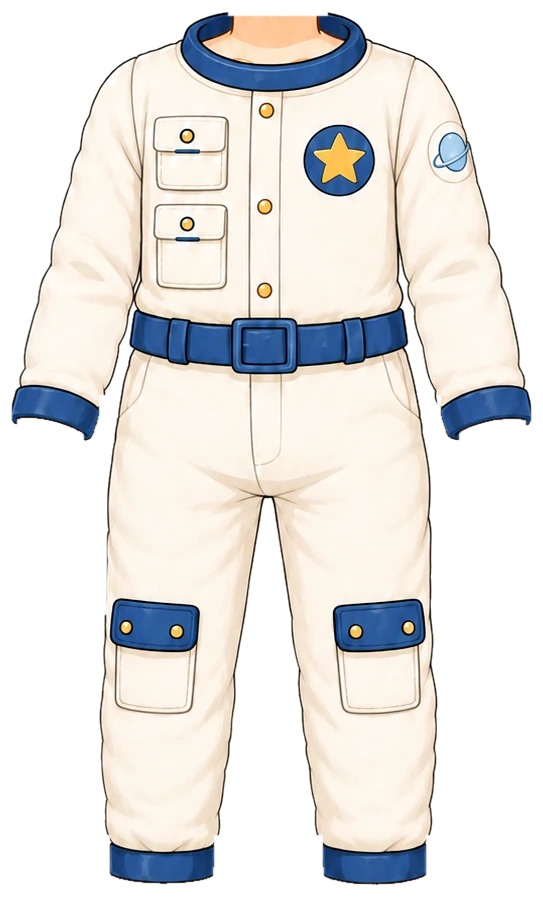
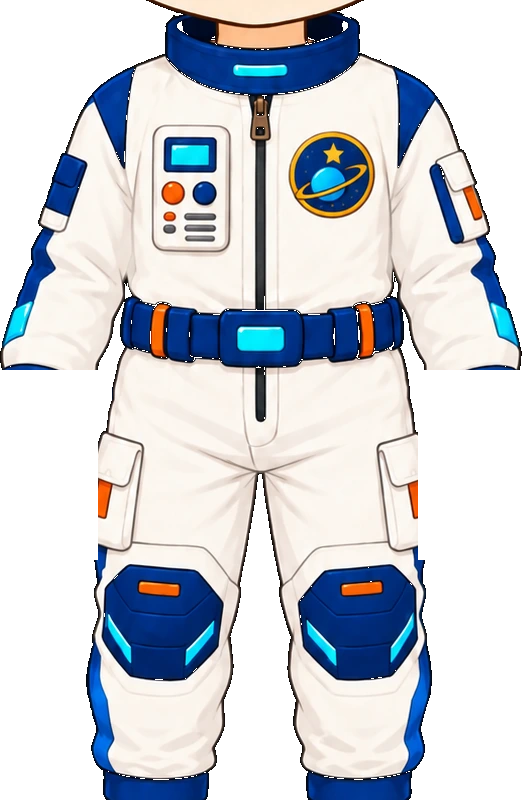
우주복 그림 교체 + 우주 헬멧·로켓 가방·우주 부츠 추가 (남아) (#731)
- 남아 우주복(top_space) 그림을 사용자가 새로 그려 준 우주 세트로 교체
  (흰 우주복 + 남색 배색 + 제어판·토성 별 패치). id·가격은 그대로라
  이미 산 아이는 그대로 입고 있다
- 헬멧(hat_astronaut)·가방(back_rocket)·부츠(shoes_astronaut)를 새로
  추가 — 지금까지 hat·back·shoes 슬롯에 남아용으로 살아 있는 아이템이
  하나도 없었는데, 이걸로 세 슬롯 모두 첫 남아 아이템이 생겼다
- 네 아이템 모두 같은 배율(0.638)·목깃선(y640)으로 탑재해 서로 갈아입어도
  자리가 어긋나지 않는다 (art-src/README '우주 세트' 항목 참고)

Claude-Session: https://claude.ai/code/session_018maNuYqDfFyRSe9uKpZhPR

diff --git a/src/data/avatarEquipment.js b/src/data/avatarEquipment.js
@@ -222,16 +222,16 @@ export const AVATAR_CATALOG = [
      베이스 속옷도 희고 살색과도 가까워서다. 그래서 '베이스가 살색인 자리에서만 색차를 본다'로
      바꿔서 떼어냈다(art-src/README 참고). 팔·다리까지 다 덮는 한 벌이라 상의 슬롯 하나.
      [2026-09-25] 남아 원화가 들어와 남녀 공용이 됐다 (사파리·해적 옷에 이어 세 번째).
-       남아: 크림 우주복 + 남색 깃·벨트·소맷부리 + 금단추 + 별 패치 · 여아: 연보라 배색
-     남아 원화도 해적 옷과 같이 **알파에 옷만 담겨 있어** 색으로 옷을 골라낼 필요가 없었다
-     (RGB 엔 손·목·발목 살까지 다 있지만 그 자리의 알파가 0 이다).
-     다만 원화의 몸이 베이스 v7 보다 팔다리가 길고 가늘어 한 배율로는 안 맞았다 —
-     가슴·허리 폭으로 맞추면(0.62) 바지가 발등을 덮고, 키로 맞추면(0.55) 옷이 몸보다 좁았다.
-     그래서 가로 0.62 · 세로 0.555 로 따로 줬다(세로 11% 눌림). 베이스가 통통한 치비라
-     눌린 쪽이 오히려 몸에 맞는다. 깃 위끝 y400 → 탑재 상자 (349,398)-(676,888).
-     실측: 소매부리 y638(손목 y625 바로 아래) · 바지밑단 y888(발목 y885 바로 아래, 맨발 노출).
-     ※ 깃이 머리 장(y403~405)을 170px 덮는데 그 자리는 턱이 아니라 목(폭 58~62)이라 맞다.
-       상의는 z35 로 베이스(z20) 위에 그려지므로 깃이 목을 감싼다. */
+     [2026-09-29 남아 원화 교체] 사용자가 헬멧·가방·신발까지 갖춘 '우주 세트'로 새로 그려
+     보내 왔다 — 남아 우주복만 이 그림으로 갈아 끼웠다(그림 교체, CLAUDE.md 6). id·가격은
+     그대로라 이미 산 아이는 그대로 입고 있다. 새 그림: 흰 우주복 + 남색 어깨·벨트·무릎보호대 +
+     제어판·토성 패치 + 주황 포인트. 손·발은 알파 0(투명)으로 비워 베이스 맨손·맨발이 비친다
+     (해적 옷과 같은 방식, 다만 이번엔 색이 아니라 손·발 상자를 직접 지워 골라냈다).
+     탑재: 여러 장(옷만·헬멧만·헬멧+신발·헬멧+가방+신발)을 받아 목깃 높이(y640)·벨트 폭을
+     기준으로 배율 0.638 균등 산출 → 목깃 위끝 y640, 발목깃 y1425(맨발 시작 전) 잘라
+     탑재 상자 대략 (224,-3)~(608+224,1053-3). 우주 헬멧(hat_astronaut)·로켓 가방
+     (back_rocket)·우주 부츠(shoes_astronaut)도 같은 배율·목깃선으로 맞춰 세트가 어긋나지
+     않는다(art-src/README '우주 세트' 참고). */
   /* 해적 옷 — 이 원화도 '옷만 오려 낸 그림'이라 상체를 눈으로 맞췄다(하늘 나들이 옷과 같은 방식).
      긴소매라 소맷부리가 손목에 닿는 배율을 골랐다 — 0.72는 팔뚝이 남고 0.76부터는 손을 덮는다.
      배율 0.74 · 깃 위끝 y372(기본 반팔티 깃과 같은 자리) → 탑재 상자 (350,372)-(674,754). */
@@ -268,7 +268,21 @@ export const AVATAR_CATALOG = [
      망토 깃 안쪽 목·가슴 살은 남겼다 — 깃 구멍(폭 39)이 베이스 목(폭 67)보다
      좁아서 살을 지우면 깃 사이로 구멍이 보인다(민트 후드와 같은 이유). */
   { id: "top_acorn",      slot: "top",   label: "도토리 탐험복", emoji: "🌰", price:DECOR_PRICE.rare, rarity: "rare", theme: "adventure", forGender: "boy", coversBottom: true, img: "assets/avatar/top/acorn-outfit-boy.webp", thumb: "assets/avatar/thumb/top_acorn.webp" },
-  { id: "top_space",      slot: "top",   label: "우주복",       emoji: "🚀", price:DECOR_PRICE.epic, rarity: "epic", theme: "space",  coversBottom: true, img: "assets/avatar/top/space-suit-boy.webp?v=2", imgGirl: "assets/avatar/top/space-suit-girl.webp", thumb: "assets/avatar/thumb/top_space.webp", thumbGirl: "assets/avatar/thumb/top_space-girl.webp" },
+  { id: "top_space",      slot: "top",   label: "우주복",       emoji: "🚀", price:DECOR_PRICE.epic, rarity: "epic", theme: "space",  coversBottom: true, img: "assets/avatar/top/space-suit-boy.webp?v=3", imgGirl: "assets/avatar/top/space-suit-girl.webp", thumb: "assets/avatar/thumb/top_space.webp?v=3", thumbGirl: "assets/avatar/thumb/top_space-girl.webp" },
+
+  /* ── 우주 세트 (남아) — 사용자 원화 2026-09-29 ────────────────────────────
+     우주복(top_space)과 같은 원화 세트에서 나온 헬멧·가방·신발. 셋 다 남아 전용 첫
+     세트 아이템이고(hat·back·shoes 슬롯에 살아 있는 아이템이 이제껏 하나도 없었다),
+     같은 배율(0.638)·목깃선(y640)으로 탑재해 우주복과 갈아입어도 자리가 안 어긋난다. */
+  /* 우주 헬멧 — 얼굴째 덮는 그림이라 hidesHead. 원화가 이미 '쓰고 있는 머리 그림'이라
+     얼굴 위치를 눈으로 맞출 필요 없이 우주복과 같은 목깃선(y640)에 밑단을 맞췄다. */
+  { id: "hat_astronaut",  slot: "hat",   label: "우주 헬멧",    emoji: "👨🚀", price:DECOR_PRICE.rare, rarity: "rare", theme: "space", forGender: "boy", hidesHead: true, img: "assets/avatar/hat/astronaut-helmet-boy.webp", thumb: "assets/avatar/thumb/hat_astronaut.webp" },
+  /* 로켓 가방 — 원화가 어깨 너머로 들여다본 모습이라, 몸통에 가려지는 부분은 버리고
+     실루엣 밖으로 삐져나온 로켓 덩어리만 오려 냈다(등 슬롯 기본 z15 그대로 — 몸통 뒤에서
+     튀어나온 부분만 보이면 되므로 앞으로 끌어올 필요가 없었다). */
+  { id: "back_rocket",    slot: "back",  label: "로켓 가방",    emoji: "🚀", price:DECOR_PRICE.rare, rarity: "rare", theme: "space", forGender: "boy", img: "assets/avatar/back/rocket-pack-boy.webp", thumb: "assets/avatar/thumb/back_rocket.webp" },
+  /* 우주 부츠 — 우주복 바지 밑단(y1425 근처)에 발목깃이 물리게 맞췄다. */
+  { id: "shoes_astronaut",slot: "shoes", label: "우주 부츠",    emoji: "🥾", price:DECOR_PRICE.common, rarity: "common", theme: "space", forGender: "boy", img: "assets/avatar/shoes/astronaut-boots-boy.webp", thumb: "assets/avatar/thumb/shoes_astronaut.webp" },
 
 ];
 

diff --git a/art-src/README.md b/art-src/README.md
@@ -351,7 +351,10 @@ getBoundingClientRect로 재서 정한다. 2026-08-05 점검에서 이 기준을
 | bottom-denim-shorts.webp | 데님 반바지 원화 (밑단 롤업) | avatar/bottom/denim-shorts.webp |
 | sky-girl-src.webp | **하늘 나들이 옷 원화 여아 (사용자 원화 2026-08-20)** — 860×1829 캔버스에 **옷만 오려 낸 그림**(타이츠 없는 판). 크림 블라우스 + 파란 리본 + 별·물방울 무늬 하늘색 스캘럽 치마. 알파 상자 (206,707)-(625,1219) | avatar/top/sky-outing-girl.webp |
 | sky-girl-tights-src.webp | 위 옷의 **타이츠 있는 판** (알파 상자 (206,707)-(625,1582)). **안 썼다** — 아래 '옷만 오려 낸 원화' 절 참고. 타이츠 아이템을 따로 만들 때 다시 쓸 수 있어 남겨 둔다 | (미탑재) |
-| space-boy-src.webp | **우주복 원화 남아 (사용자 원화 2026-09-25)** — 543×897 캔버스에 **알파에 옷만** 담긴 그림(RGB 엔 손·목·발목 살까지 있지만 그 자리 알파는 0 — 해적 남아 원화와 같은 방식). 크림 우주복 + 남색 깃·벨트·소맷부리 + 금단추 + 별·행성 패치. 알파 상자 (10,10)-(533,887). 원화 몸이 베이스 v7 보다 팔다리가 길고 가늘어 **가로 0.62 · 세로 0.555 로 따로** 줬다(세로 11% 눌림) · 깃 위끝 y400 → 탑재 상자 (349,398)-(676,888) | avatar/top/space-suit-boy.webp |
+| space-boy-src.webp | **[2026-09-29 그림 교체]** 사용자가 헬멧·가방·신발까지 갖춘 '우주 세트'를 새로 그려 보내 왔다(그림 4장 — 옷만·옷+헬멧·옷+헬멧+신발·옷+헬멧+가방+신발, 각기 다른 캔버스 크기의 독립 생성본). 남아 우주복만 이 그림으로 갈아 끼웠다(같은 파일명, CLAUDE.md 6 — 구버전 원본은 지웠다). 흰 우주복 + 남색 어깨·벨트·무릎보호대 + 제어판·토성 별 패치 + 주황 포인트, 손목·발목에서 딱 잘려 손·발은 알파 0(베이스 맨손·맨발이 비친다). **탑재 배율 계산**: 네 장이 서로 다른 캔버스라 픽셀 diff 정합이 안 먹혀서, '옷만' 그림 한 장 안에서 목깃 최고점(y640)과 발목깃 아래끝(y1425, 맨발 시작 전)·벨트 폭(482px)을 함께 재 배율 0.638(균등)을 산출했다(벨트 폭 기준 검산 오차 1%). 목깃 위끝 y640, 발목깃 y1425 잘라 탑재 상자 (224,-3)-(832,1050). 헬멧·가방·신발도 같은 배율·목깃선을 그대로 물려 썼다(아래 세 줄) — 넷을 따로 입혀도 자리가 안 어긋난다 | avatar/top/space-suit-boy.webp |
+| astronaut-helmet-boy-src.webp | **우주 헬멧 원화 남아 (사용자 원화 2026-09-29, 우주 세트 2/4 — '옷+헬멧' 그림에서 목깃 아래를 잘라 보관)** — 554×480 캔버스, 이미 '쓰고 있는 머리 그림'이라 얼굴 위치를 눈으로 맞출 필요가 없었다. 흰 돔 + 남색 링·귀 스피커 + 하늘색 바이저 하이라이트. hidesHead(베이스 머리 전체를 이 그림이 대신한다). 배율은 우주복과 같은 0.638 — 헬멧 밑단(목깃 최고점, 원화 y632)을 우주복 목깃 위끝(y640)과 같은 자리(y405)에 맞춰서 둘 사이에 틈이나 겹침이 없다. 탑재 상자 (216,2)-(569,308) | avatar/hat/astronaut-helmet-boy.webp |
+| rocket-pack-boy-src.webp | **로켓 가방 원화 남아 (사용자 원화 2026-09-29, 우주 세트 4/4 — '옷+헬멧+가방+신발' 그림에서 오려 냄)** — 142×321 캔버스. 원화가 어깨 너머로 비스듬히 얹힌 로켓이라, 등 슬롯 기본 z(15, 몸통 뒤)로 두면 몸통 실루엣 밖으로 삐져나온 부분만 보이는데 그게 딱 원화가 보여 주는 모습이라 **z를 따로 안 올렸다**(탐험 배낭 어깨끈과 달리 앞으로 끌어올 필요가 없었다). 떼어내는 방법: '같은 세트의 신발까지만 있는 그림'(옷+헬멧+신발, 가방 없음)과 특징점 정합(ORB)한 뒤, 몸통 실루엣을 15px 넉넉히 부풀려 그 밖으로 나온 덩어리만 남겼다(색차가 아니라 실루엣 비교라 몸통색과 겹쳐도 안전). 탑재 배율 0.638 그대로, 세트 정합으로 계산한 상자 (222,39 기준계)를 거쳐 최종 탑재 | avatar/back/rocket-pack-boy.webp |
+| astronaut-boots-boy-src.webp | **우주 부츠 원화 남아 (사용자 원화 2026-09-29, 우주 세트 3/4 — '옷+헬멧+신발' 그림에서 발목 위를 잘라 보관)** — 396×228 캔버스. 흰 부츠 + 남색 발목 스트랩·밑창 + 주황 포인트. 우주복 바지 밑단(y1425)에 발목깃이 물리도록 맞췄다(발목깃 원화 y1295부터 보관). 배율 0.638 · 탑재 상자 (222,39)-(618,357) | avatar/shoes/astronaut-boots-boy.webp |
 | (딸기 소풍·별빛 마법사 재탑재 2026-09-25) | **원화가 언젠가 '옷만 오려 낸 깨끗한 그림'으로 바뀌어 있었는데 탑재본은 옛날 '색으로 떼어낸' 판 그대로였다.** 그래서 탑재본에는 손·목 조각과 **천에 뚫린 구멍**이 남아 있었다 (딸기 소풍: 안쪽 구멍 42개 10,954px — 깅엄의 흰 칸과 크림 블라우스가 통째로 날아가 있었다. 입은 모습에선 베이스의 흰 속옷이 블라우스 노릇을 해서 안 보였고, 상점 카드도 배경이 흰색이라 가려졌다). **패치가 아니라 깨끗한 원화에서 다시 올렸다.** 현재 자리를 지키려고 옛 탑재본과 색이 가장 잘 맞는 배율·오프셋을 찾아 썼다 (마법사 0.583/(263,-32) 색차 7.4 · 소풍 0.596/(259,-44) 색차 19.7, 덮임 97%). 새 상자 — 마법사 (353,356)-(667,755) · 소풍 (372,366)-(651,686). 경로에 `?v=2` 를 붙였다. **교훈: 원화가 새 판으로 바뀌면 탑재본도 같이 다시 올릴 것** | avatar/top/magic-outfit-girl.webp · picnic-outfit-girl.webp |
 | (신발·가방 검사 2026-09-25) | **신발 5종·가방 4종 모두 깨끗했다** (조각·구멍 없음, 흰·자홍 배경 둘 다 확인). 다만 **아홉 개 다 상점에 없다** — 2026-08-20 사용자 확정으로 뺀 은퇴 아이템이고 그림만 남겨 둔 것이다(RETIRED_ITEM_INFO 참고). 하의 3종(크림·데님·카키 반바지)도 같다. 다시 넣게 되면 그대로 쓸 수 있다 | (미탑재 — 파일만 보관) |
 | (모자 2종 청소 2026-09-25) | **해적 모자·딸기 밀짚모자** — 원화가 '쓰고 있는 머리 그림'이라 색으로 얼굴을 떼어냈는데 조각이 남아 있었다. 해적 모자는 **두 눈과 앞머리가 통째로** 붙어 있어 상점 카드가 '눈 달린 모자'였다. 쓴 모습에선 베이스 얼굴과 겹쳐 안 보여 여태 안 드러났다. 모자색(남색 b−r>8 / 주황 r−g>60 & r>200)으로 고갱이를 잡고 3px 부풀려 윤곽선을 되찾은 뒤, 가장 큰 덩어리만 남기고 챙 아래 갈색(r−b>25, r<195)을 털었다 — 5,966+920px. 밀짚모자는 같은 방식이 **챙 윤곽선까지 갉아먹어서**(윤곽 lum≈150, 머리카락 lum≈50) 밝기로 갈랐다: y≥158 에서 lum<120 & r−b>35 만 제거 (2,112px + 부스러기 39px). 사파리 머리띠는 10px뿐이라 그대로 뒀다. 경로에 `?v=2` | avatar/hat/pirate-hat-girl.webp · picnic-hat-girl.webp |
